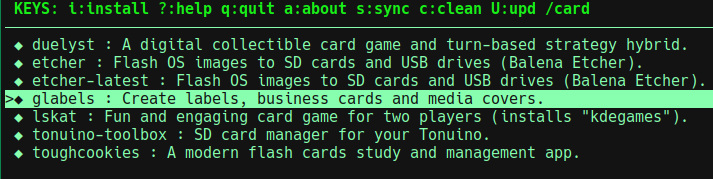
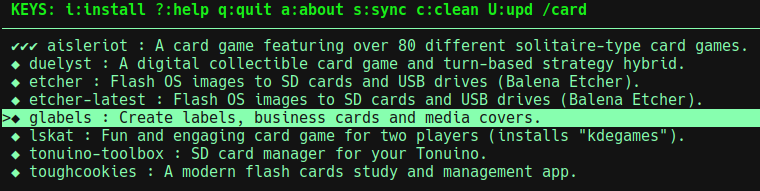
refinements (e.g., ENTER does lots)

diff --git a/src/vappman/main.py b/src/vappman/main.py
@@ -33,21 +33,19 @@ class Vappman:
         assert not Vappman.singleton
         Vappman.singleton = self
 
-        self.summary_lines = []
-        self.new_summary_lines = True
-
         spin = self.spin = OptionSpinner()
         spin.add_key('help_mode', '? - toggle help screen', vals=[False, True])
 
         # EXPAND
         other = 'airbou/qscU'
         other_keys = set(ord(x) for x in other)
+        other_keys.add(cs.KEY_ENTER)
+        other_keys.add(10) # another form of ENTER
         self.opts = spin.default_obj
 
         self.actions = {} # currently available actions
         self.pick_app = '' # current picked app
         self.pick_is_installed = False
-        # self.verbs = {'i': 'install', 'r': 'remove', 'v': 'view',}
         self.prev_filter = '' # string
         self.filter = None # compiled pattern
         self.check_preqreqs()
@@ -95,7 +93,7 @@ class Vappman:
 
     def get_installed(self):
         """ Get the list of lines of installed apps """
-        rv = self.cmd_dict('appman files --by-name')
+        rv = self.cmd_dict('appman files --byname')
         return rv
 
     def main_loop(self):
@@ -116,6 +114,7 @@ class Vappman:
                     '   c - clean (remove unneeded files/folters)',
                     '   U - update ALL installed apps',
                     '   / - filter apps',
+                    '   ENTER = install, remove, or return from help',
                     'CONTEXT SENSITIVE:',
                     '   i - install uninstalled app',
                     '   r - remove installed app',
@@ -133,15 +132,15 @@ class Vappman:
                 # self.win.set_pick_mode(self.opts.pick_mode, self.opts.pick_size)
                 self.win.set_pick_mode(True)
                 self.win.add_header(self.get_keys_line(), attr=cs.A_BOLD)
-                for line in self.installs.values():
+                for app, line in self.installs.items():
+                    if app in self.apps:
+                        line = self.apps[app]
                     if wanted(line):
+                        line = '✔✔✔' + line[1:]
                         self.win.add_body(line)
                 for app, line in self.apps.items():
                     if app not in self.installs and wanted(line):
                         self.win.add_body(line)
-#           if self.new_summary_lines:
-#               self.win.pick_pos = self.win.scroll_pos = 0
-#               self.new_summary_lines = False
             self.win.render()
 
             _ = self.do_key(self.win.prompt(seconds=300))
@@ -206,34 +205,27 @@ class Vappman:
     def run_appman(self, cmd):
         Window.stop_curses()
         os.system(f'clear; stty sane; {cmd};'
-                  + ' echo -e "\n\nHit ENTER to return to menu"; read FOO')
+                  + ' /bin/echo -e "\n\n===== Press ENTER for menu ====> \c"; read FOO')
         self.installs = self.get_installed()
         Window._start_curses()
 
     def do_key(self, key):
         """ TBD """
-        def dashes(ns, ok=True):
-            try:
-                # use checkmark or circle-backslash
-                filler = ('\u2713' if ok else '\u2342') * (ns.end - ns.start)
-                line = self.summary_lines[self.win.pick_pos]
-                line = line[0:ns.start] + filler + line[ns.end:]
-                self.summary_lines[self.win.pick_pos] = line
-                self.win.draw(self.win.pick_pos, 0, line, width=self.win.get_pad_width(), header=False)
-                self.win.fix_positions(delta=1)
-                self.win.render()
-            except Exception:
-                pass
-
         if not key:
             return True
+        if key == cs.KEY_ENTER or key == 10: # Handle ENTER
+            if self.opts.help_mode:
+                self.opts.help_mode = False
+                return True
+            elif self.pick_is_installed:
+                key = ord('r') # removed installed app
+            else:
+                key = ord('i') # install uninstalled app
+
         if key in self.spin.keys:
             value = self.spin.do_key(key, self.win)
-            if key in (ord('p'), ord('s')):
-                self.win.set_pick_mode(on=self.opts.pick_mode, pick_size=self.opts.pick_size)
-            elif key == ord('n'):
-                self.win.alert(title='Info', message=f'got: {value}')
             return value
+        
         if key == ord('q'):
             self.win.stop_curses()
             os.system('clear; stty sane')

diff --git a/README.md b/README.md
@@ -29,9 +29,16 @@ But it does NOT cover:
 * It presents some keys available on the top line.
     * Use '?' to learn the navigation keys (e.g., you can use the mouse wheel,
       arrow keys, and many `vi`-like keys)
+    * '?' also elaborates the meaning of the available keys for operations.
+    * NOTE: `ENTER` acts differently based on context:
+      * In help, it returns to the main menu.
+      * On an uninstalled app, it installs it.
+      * On an installed app, it uninstalls it.
 * Then `vappman` presents a list of installed apps, followed by available/uninstalled apps.
+    * Installed apps have prefix '✔✔✔' (i.e., three checks).
+    * Uninstalled apps have prefix '◆' (i.e., a solid diamond).
 * Enter `/` to enter a "filter" for installed/uninstalled apps, if you wish.
-    * If you enter plain old "words", then those words must match the beginning of words
+    * If you enter plain ole "words", then those words must match the beginning of words
       of the apps or descriptions (in order, but not contiguously).
     * Or you can enter an regular expression acceptable to python (e.g., `\b` means word
       boundary, etc.)
@@ -43,9 +50,11 @@ But it does NOT cover:
 ---
 
 NOTES: in this example:
-* the filter is `card` so it shows apps with words starting with `card`.
-* the current position is on `glabels`; thus if `i` is typed, `appman install glabels` is run.
+* the filter is `card` so it shows app lines with words starting with `card`.
+* the reverse video, current position is on `glabels`;
+  thus if `i` (or ENTER) is typed, `appman install glabels` is run.
 * if the horizontal line (second line show) has no decorations, then you are looking
   all the filtered apps; otherwise, the decoration suggests where you are in the
   partial view of the filtered apps.
+* the matching installed app has the '✔✔✔' prefix.
 
